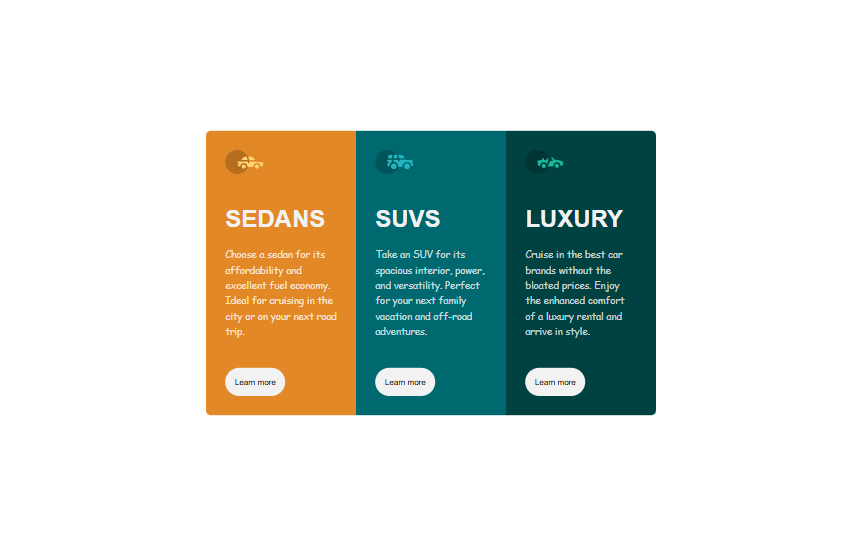
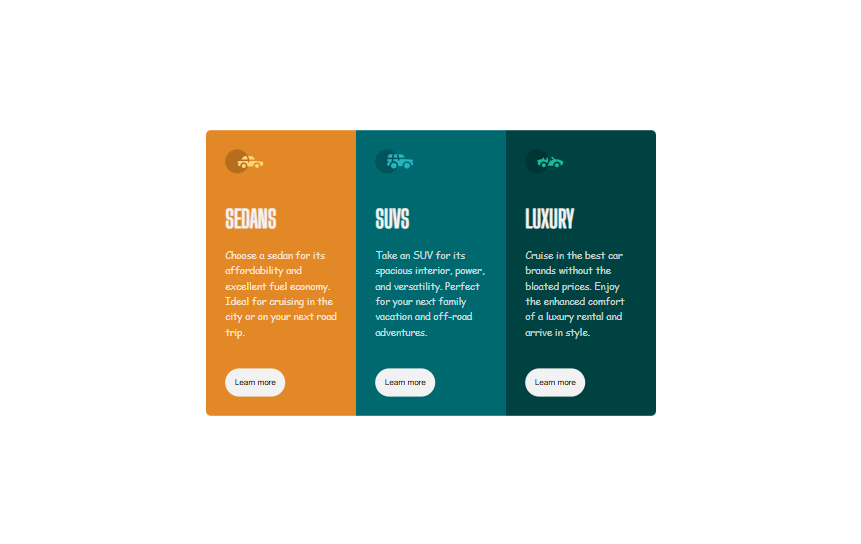
fx(font-display)

diff --git a/style.css b/style.css
@@ -27,7 +27,7 @@
   /* ====== TYPOGRAPHY ====== */
   --font-size: 15px;
   --font-lexend-deca: "Lexend Deca", cursive;
-  --font-big-shoulders: "Big Shoulders Display", sans-serif;
+  --font-big-shoulders-display: "Big Shoulders Display", sans-serif;
 }
 
 main {
@@ -59,7 +59,7 @@ h2 {
   font-weight: 700;
   margin: 24px 0;
   text-transform: uppercase;
-  font-family: var(--font-big-shoulders);
+  font-family: var(--font-big-shoulders-display);
 }
 
 p {
